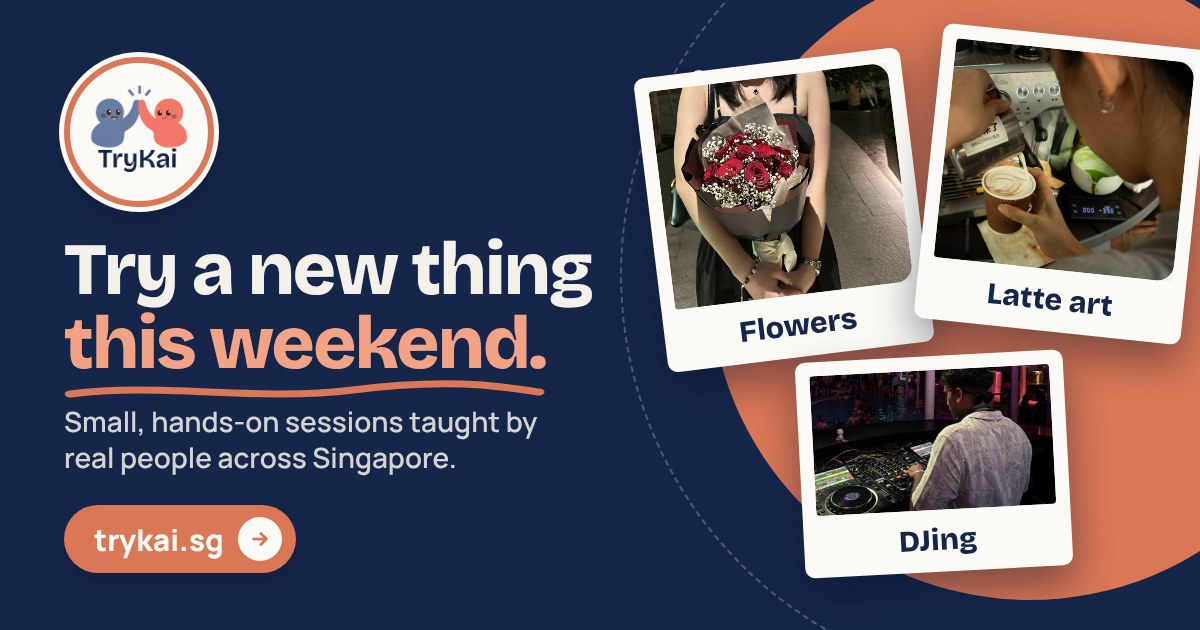
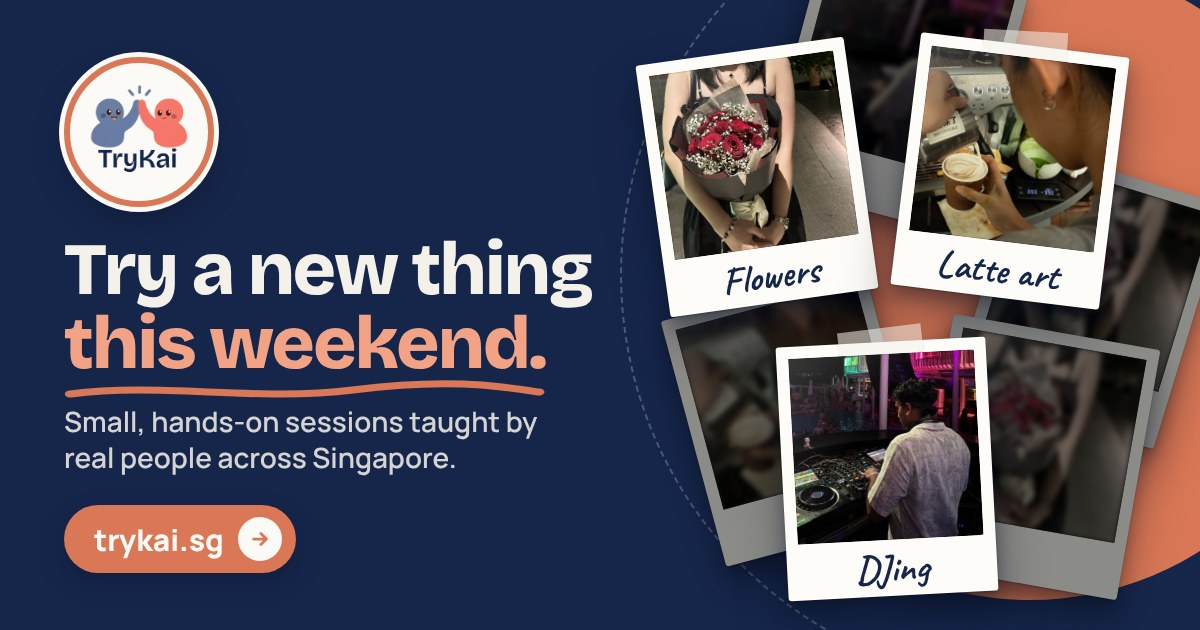
Link preview: polaroids with a stack behind
Claude-Session: https://claude.ai/code/session_01VLGT7aQvMvkwe5qN89Z16G

diff --git a/Markdowns/DECISIONS.md b/Markdowns/DECISIONS.md
@@ -791,4 +791,4 @@ Live questions with work already done. Each needs a call.
 
 **2026-11-11: Home link preview shows the site, not the logo.** Sharing trykai.sg (Telegram, WhatsApp, X) used the 400 by 400 mascot as a small square thumbnail. It is now a 1200 by 630 image, `public/og-home.jpg`: the home headline beside two real listings (flower arrangement and latte art), with `summary_large_image`, so apps show a large preview. The image has no dates or prices, because both go stale (soft-launch prices change at hard launch). Listing pages keep their own cover photo preview (`api/listing-preview.js`). Swap the image when either listing leaves, or for a better pair; rename the file when you do, since Telegram and WhatsApp cache by URL.
 
-**2026-11-11: Link preview is an ad, not a screenshot.** The first version (headline beside two listing cards) had text too small to read on a phone. `public/og-home-2.jpg` is a navy and coral poster: "Try a new thing this weekend.", one line on what TryKai is, three photo cards (flowers, latte art, DJing), the full logo in a round badge at the top left, and a coral trykai.sg button. Every word is large enough to read in a Telegram preview. Still no dates or prices.
+**2026-11-11: Link preview is an ad, not a screenshot.** The first version (headline beside two listing cards) had text too small to read on a phone. `public/og-home-2.jpg` is a navy and coral poster: "Try a new thing this weekend.", one line on what TryKai is, three polaroids (flowers, latte art, DJing) with handwritten labels on a dimmed stack of more polaroids, the full logo in a round badge at the top left, and a coral trykai.sg button. Every word is large enough to read in a Telegram preview. Still no dates or prices.
